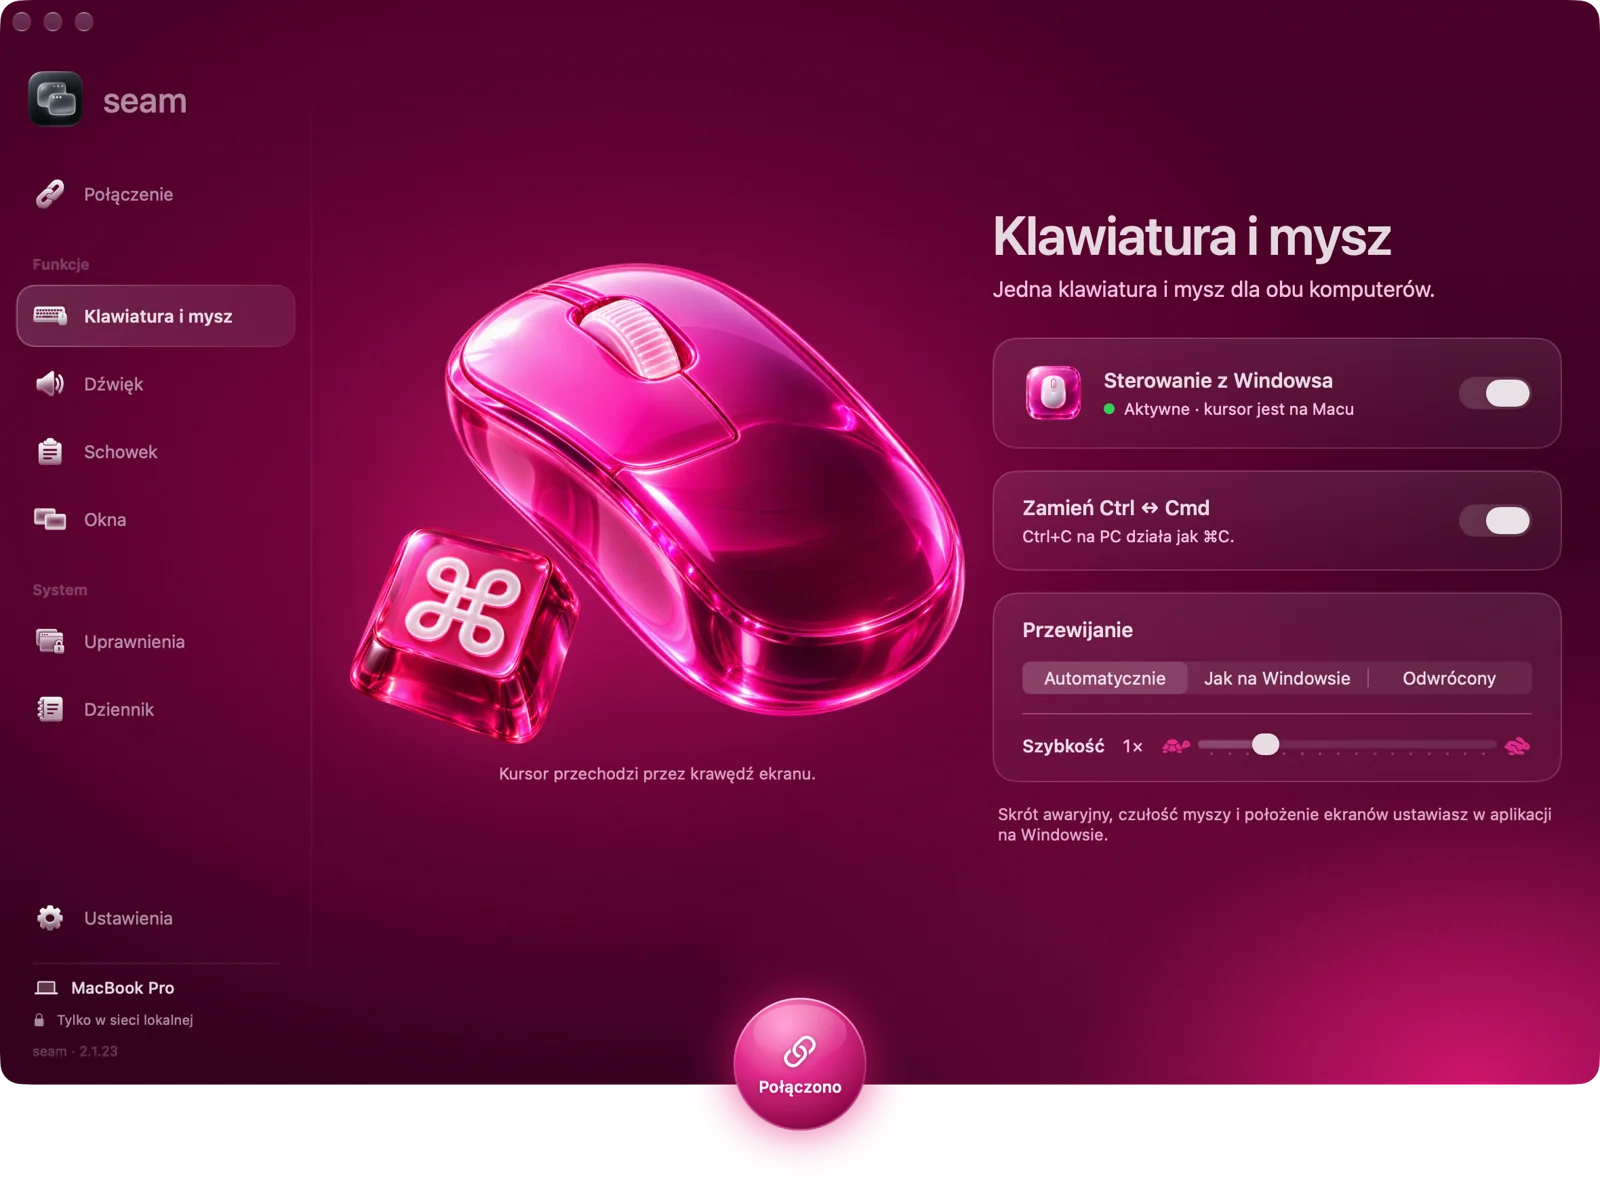
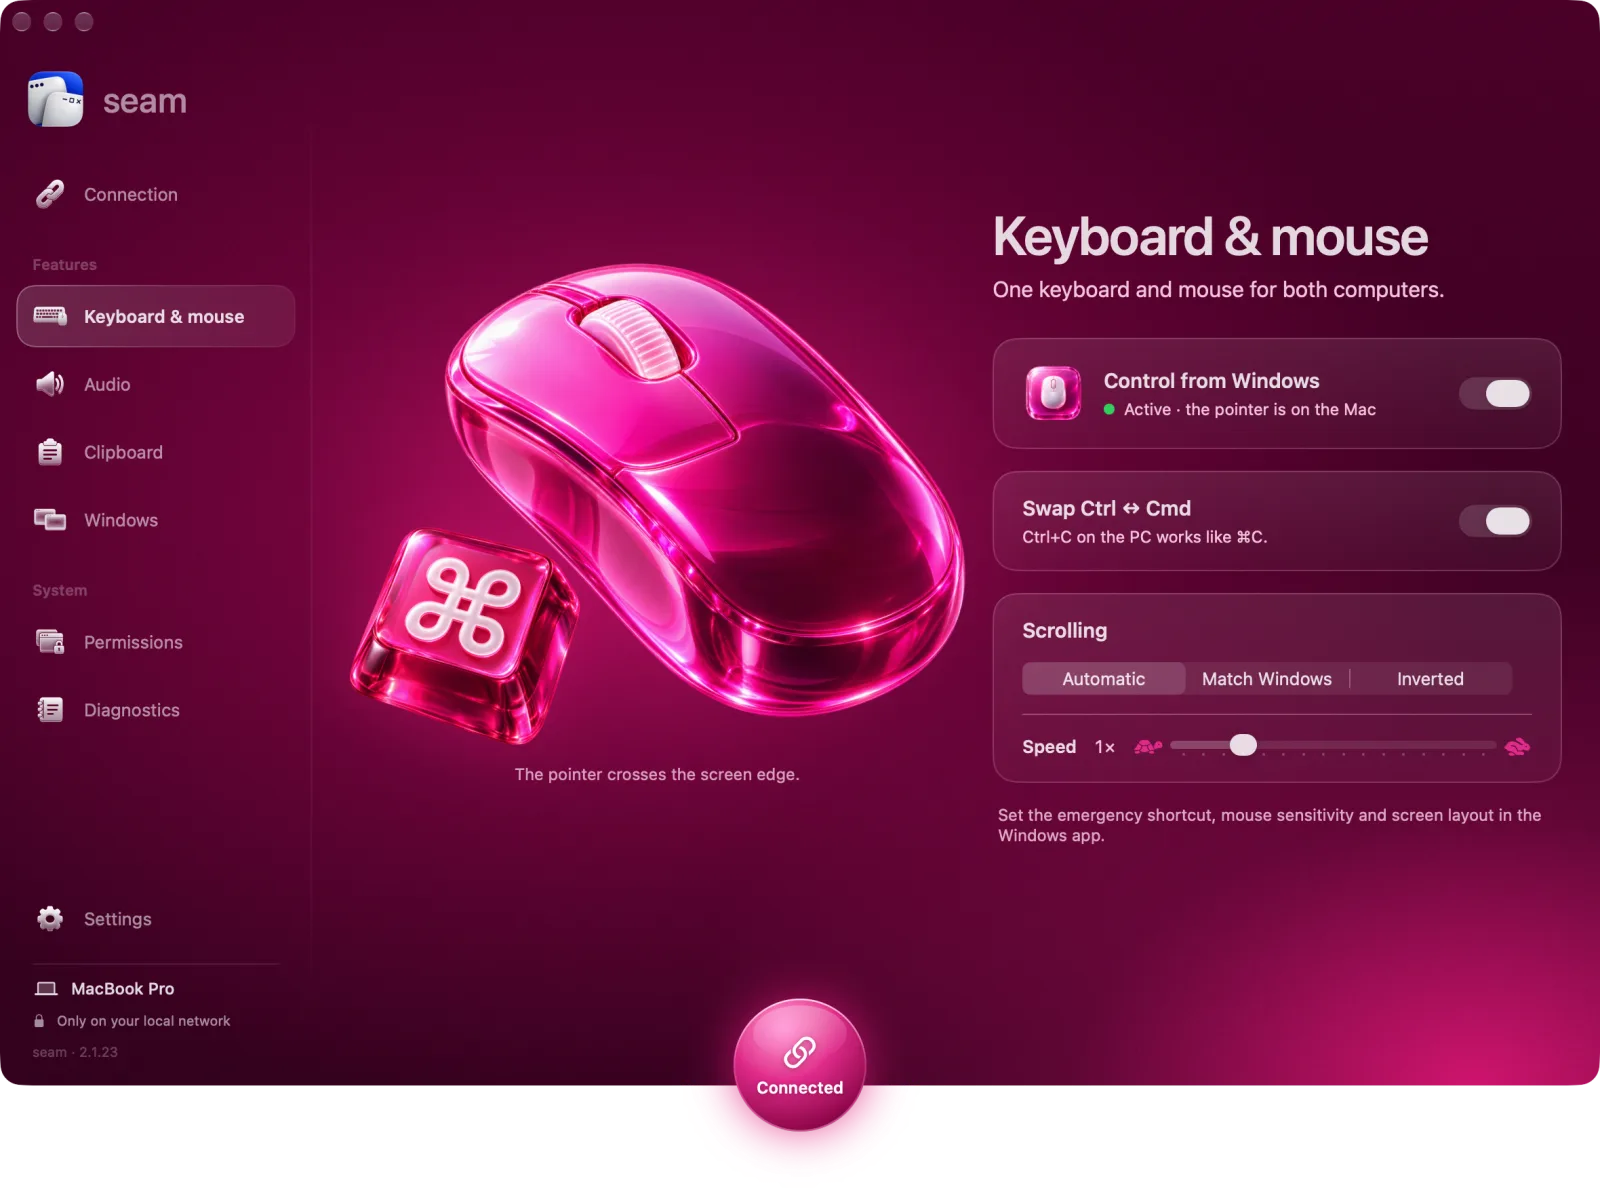
Use English screenshots on the English site and current Polish ones on the Polish site
The five app screenshots, the hero scene and the pairing photo are rebuilt
from the current Mac app: English in site/assets/, Polish in site/assets/pl/,
which the Polish page now uses. compose_stage_scene.py takes the language.

diff --git a/site/pl/index.html b/site/pl/index.html
@@ -20,7 +20,7 @@
   <link rel="apple-touch-icon" href="../assets/apple-touch-icon.png">
   <link rel="preload" as="font" type="font/woff2" href="../fonts/inter-latin-wght-normal.woff2" crossorigin>
   <link rel="preload" as="image" href="../assets/bg-hero.webp">
-  <link rel="preload" as="image" href="../assets/stage-scene.webp">
+  <link rel="preload" as="image" href="../assets/pl/stage-scene.webp">
   <link rel="stylesheet" href="../styles.css">
   <link rel="stylesheet" href="../gallery.css">
   <link rel="stylesheet" href="../nav.css">
@@ -180,7 +180,7 @@
 
       <!-- Scena w chmurach: prawdziwe zrzuty aplikacji na obu komputerach -->
       <div class="stage">
-        <img class="stage__scene" src="../assets/stage-scene.webp" width="1536" height="1024" alt="MacBook z aplikacją Seam na stronie Połączenie i monitor PC z jej stroną Klawiatura i mysz, na świecącym blacie wśród chmur">
+        <img class="stage__scene" src="../assets/pl/stage-scene.webp" width="1536" height="1024" alt="MacBook z aplikacją Seam na stronie Połączenie i monitor PC z jej stroną Klawiatura i mysz, na świecącym blacie wśród chmur">
 
         <ul class="badges" aria-label="W skrócie">
           <li class="badge"><svg viewBox="0 0 120 120" aria-hidden="true"><use href="#badge-ring"/><text><textPath href="#arc-top" startOffset="50%">BEZ</textPath></text><text><textPath href="#arc-bottom" startOffset="50%">KONTA</textPath></text><image class="badge__icon" href="../assets/badge-no-account.png" x="35" y="35" width="50" height="50"/></svg><span class="sr">Bez konta</span></li>
@@ -320,7 +320,7 @@
       </div>
       <div class="showcase reveal">
         <figure class="shot" id="shot" role="tabpanel" aria-labelledby="tab-control">
-          <img src="../assets/app-control.webp" alt="Strona Klawiatura i mysz w aplikacji Seam na Macu" width="1600" height="1193" loading="lazy">
+          <img src="../assets/pl/app-control.webp" alt="Strona Klawiatura i mysz w aplikacji Seam na Macu" width="1600" height="1194" loading="lazy">
         </figure>
         <!-- kulki w kolorach stron, te same co status połączenia w aplikacji (ConnectionStatusButton) -->
         <div class="orbs" role="tablist" aria-label="Strony aplikacji">
@@ -358,7 +358,7 @@
           <p class="step__eyebrow">Krok 2</p>
           <h3>Połącz kodem.</h3>
           <p class="step__text">Mac pokazuje kod parowania. Wpisujesz go na Windowsie i komputery są połączone.</p>
-          <div class="step__media step__media--bleed"><img src="../assets/step-pairing-photo.webp" alt="MacBook z ekranem parowania Seam i kodem do wpisania na Windowsie" width="900" height="497" loading="lazy"></div>
+          <div class="step__media step__media--bleed"><img src="../assets/pl/step-pairing-photo.webp" alt="MacBook z ekranem parowania Seam i kodem do wpisania na Windowsie" width="900" height="497" loading="lazy"></div>
         </li>
         <li class="step reveal">
           <p class="step__eyebrow">Krok 3</p>

diff --git a/site/index.html b/site/index.html
@@ -320,7 +320,7 @@
       </div>
       <div class="showcase reveal">
         <figure class="shot" id="shot" role="tabpanel" aria-labelledby="tab-control">
-          <img src="assets/app-control.webp" alt="The Keyboard and mouse page in Seam on a Mac" width="1600" height="1193" loading="lazy">
+          <img src="assets/app-control.webp" alt="The Keyboard and mouse page in Seam on a Mac" width="1600" height="1194" loading="lazy">
         </figure>
         <!-- kulki w kolorach stron, te same co status połączenia w aplikacji (ConnectionStatusButton) -->
         <div class="orbs" role="tablist" aria-label="App pages">
